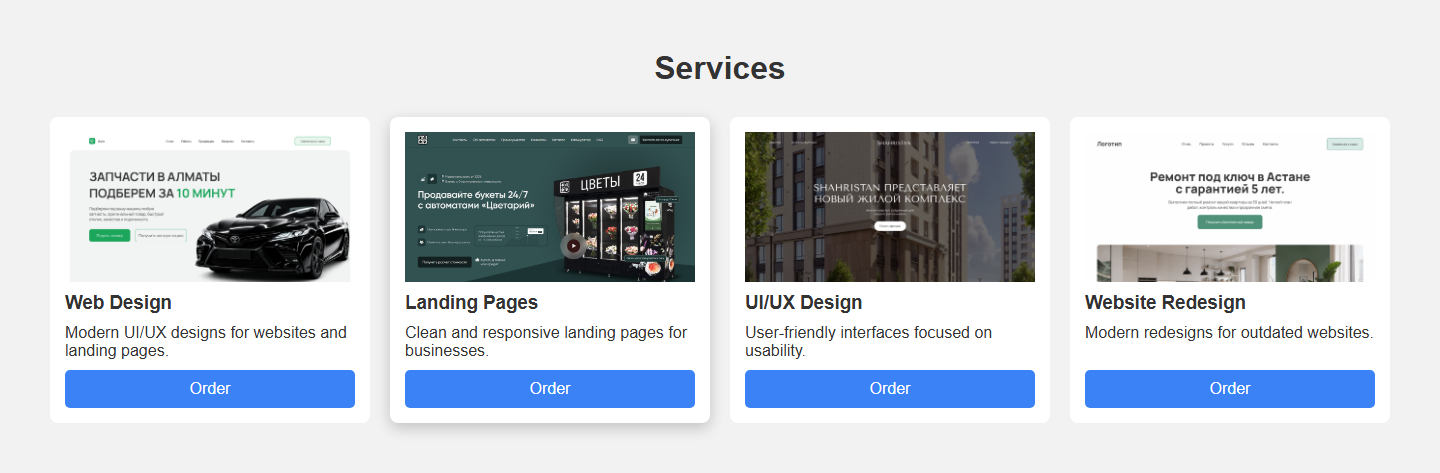
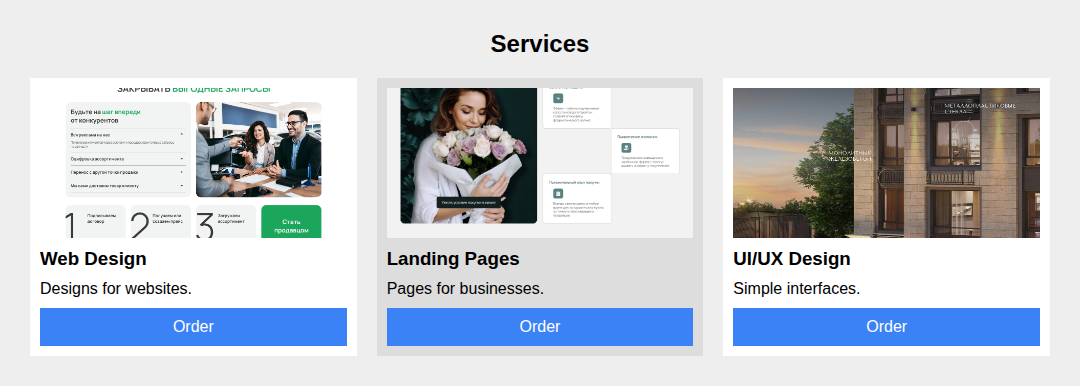
Update README and screenshots

diff --git a/README.md b/README.md
@@ -1,13 +1,12 @@
 # Assignment #2. Advanced CSS (Flexbox & Grid)
 
 **Name:** Zhumagaliyev Aktilek
-**Group:** ____
+**Group:** TI-2503
 
-Topic: a simple website for my web design services.
+Topic: a simple one-page website for my web design services.
 
 Files:
-- `index.html` — main page (Task 0, 1, 3, 4)
-- `portfolio.html` — portfolio page (Task 2)
+- `index.html` — the page
 - `styles.css` — styles
 - `images/` — images
 - `screenshots/` — screenshots for the report
@@ -20,18 +19,17 @@ Files:
 
 ### Task 0. Navigation Bar
 
-The header is a flex container. `justify-content: space-between` puts the logo on the left and the links on the right. `align-items: center` centers them vertically. The links are also in a flex container with `gap: 30px`.
+The header is a flex container. `justify-content: space-between` puts the name on the left and the menu on the right. The menu links are also in a flex container with `gap: 20px` between them.
 
 ```css
 .header {
     display: flex;
     justify-content: space-between;
-    align-items: center;
 }
 
 .nav {
     display: flex;
-    gap: 30px;
+    gap: 20px;
 }
 ```
 
@@ -39,7 +37,7 @@ The header is a flex container. `justify-content: space-between` puts the logo o
 
 ### Task 1. Card Row
 
-There are four cards with an image, title, text and button. The container `.cards` is a flex container with `gap: 20px`. Each card has `flex: 1`, so all cards have the same width and height. The text has `flex: 1`, so all buttons are at the bottom. On hover the card gets a shadow (the second card on the screenshot).
+There are three cards in one row. `.cards` is a flex container with `gap: 20px`. Each card has `flex: 1`, so all cards have the same width. Inside the card, `flex-direction: column` puts the image, title, text and button under each other. On hover the card becomes grey (the second card on the screenshot).
 
 ```css
 .cards {
@@ -51,10 +49,11 @@ There are four cards with an image, title, text and button. The container `.card
     flex: 1;
     display: flex;
     flex-direction: column;
+    gap: 10px;
 }
 
 .card:hover {
-    box-shadow: 0 5px 15px rgba(0, 0, 0, 0.2);
+    background-color: #ddd;
 }
 ```
 
@@ -66,35 +65,51 @@ There are four cards with an image, title, text and button. The container `.card
 
 ### Task 2. Page Layout with Grid Areas
 
-On `portfolio.html` the container `.page` is a grid with 2 columns and 3 rows. With `grid-template-areas` the header is on the top, the sidebar is on the left, the main content is on the right and the footer is on the bottom.
+The whole page is inside `.page`, which is a grid with 2 columns and 3 rows. `grid-template-areas` draws the plan of the page. Each part gets its place with `grid-area`:
+
+- the header is on the top (it takes both columns),
+- the sidebar is on the left (200px),
+- the main content is on the right (`1fr` = all free space),
+- the footer is on the bottom (it takes both columns).
 
 ```css
 .page {
     display: grid;
-    grid-template-columns: 250px 1fr;
+    grid-template-columns: 200px 1fr;
     grid-template-rows: auto 1fr auto;
     grid-template-areas:
-        "header header"
+        "header  header"
         "sidebar main"
-        "footer footer";
+        "footer  footer";
 }
+
+.header  { grid-area: header; }
+.sidebar { grid-area: sidebar; }
+.main    { grid-area: main; }
+.footer  { grid-area: footer; }
 ```
+
+On the screenshot the red lines show that each part is in its grid area.
 
 ![Task 2](screenshots/task2-layout.png)
 
 ### Task 3. Image Gallery
 
-The gallery has 9 images. It is a grid with 3 equal columns and 3 rows, and `gap: 15px`. The caption is hidden (`display: none`) and appears on hover (Project 05 on the screenshot).
+The gallery has 9 images. It is a grid with 3 equal columns, 3 rows of 150px and `gap: 10px`. The caption is hidden with `display: none`. When the mouse is on the image, the caption appears (Fitness on the screenshot).
 
 ```css
 .gallery {
     display: grid;
-    grid-template-columns: repeat(3, 1fr);
-    grid-template-rows: repeat(3, 200px);
-    gap: 15px;
+    grid-template-columns: 1fr 1fr 1fr;
+    grid-template-rows: 150px 150px 150px;
+    gap: 10px;
 }
 
-.gallery-item:hover .caption {
+.caption {
+    display: none;
+}
+
+.item:hover .caption {
     display: block;
 }
 ```
@@ -107,20 +122,21 @@ The gallery has 9 images. It is a grid with 3 equal columns and 3 rows, and `gap
 
 ### Task 4. Portfolio Page
 
-The page has a header with Flexbox navigation, main sections, and a footer on the bottom. The portfolio section is a grid: projects on the left (`2fr`) and info on the right (`1fr`). Inside each project card Flexbox puts the title, description and button in a column.
+The page uses Grid and Flexbox together:
+
+- **Grid** makes the big layout: header, sidebar, main and footer (`.page`) and the gallery (`.gallery`).
+- **Flexbox** works inside the parts: the menu in the header, the sidebar content in a column, and the cards in a row.
 
 ```css
-.portfolio {
+/* Grid for the layout */
+.page {
     display: grid;
-    grid-template-columns: 2fr 1fr;
-    gap: 30px;
 }
 
-.project {
-    display: flex;
-    flex-direction: column;
-    gap: 10px;
-}
+/* Flexbox inside */
+.header  { display: flex; }
+.sidebar { display: flex; flex-direction: column; }
+.cards   { display: flex; }
 ```
 
 ![Task 4](screenshots/task4-portfolio.png)
@@ -129,4 +145,4 @@ The page has a header with Flexbox navigation, main sections, and a footer on th
 
 ## Summary
 
-First I made the header with Flexbox. Then I made the service cards in one row with Flexbox and added a shadow on hover. After that I made the portfolio page with Grid areas: header, sidebar, main and footer. Then I made a gallery with 9 images using Grid and added a caption on hover. At the end I made the portfolio section where Grid is used for the layout and Flexbox is used inside the project cards. I used only HTML and CSS.
+First I made the header with Flexbox. Then I made three service cards in one row with Flexbox and added a hover effect. After that I made the layout of the page with Grid areas: header, sidebar, main and footer. Then I made a gallery of 9 images with Grid and a caption that appears on hover. In the end the page uses Grid for the big layout and Flexbox inside the parts. I used only HTML and CSS.
